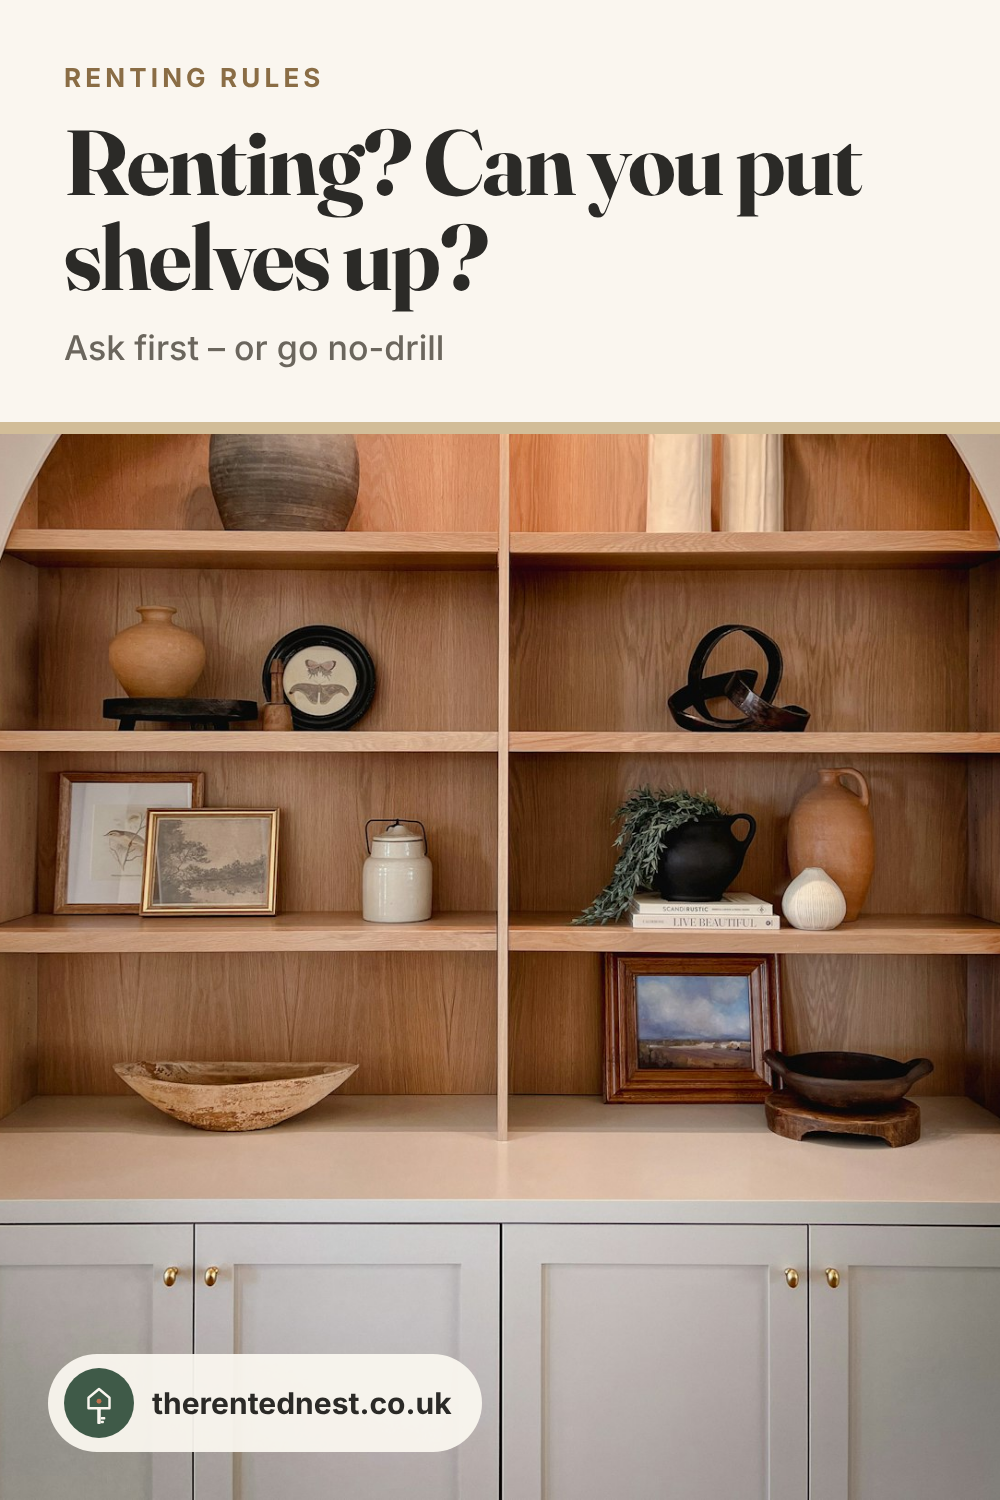
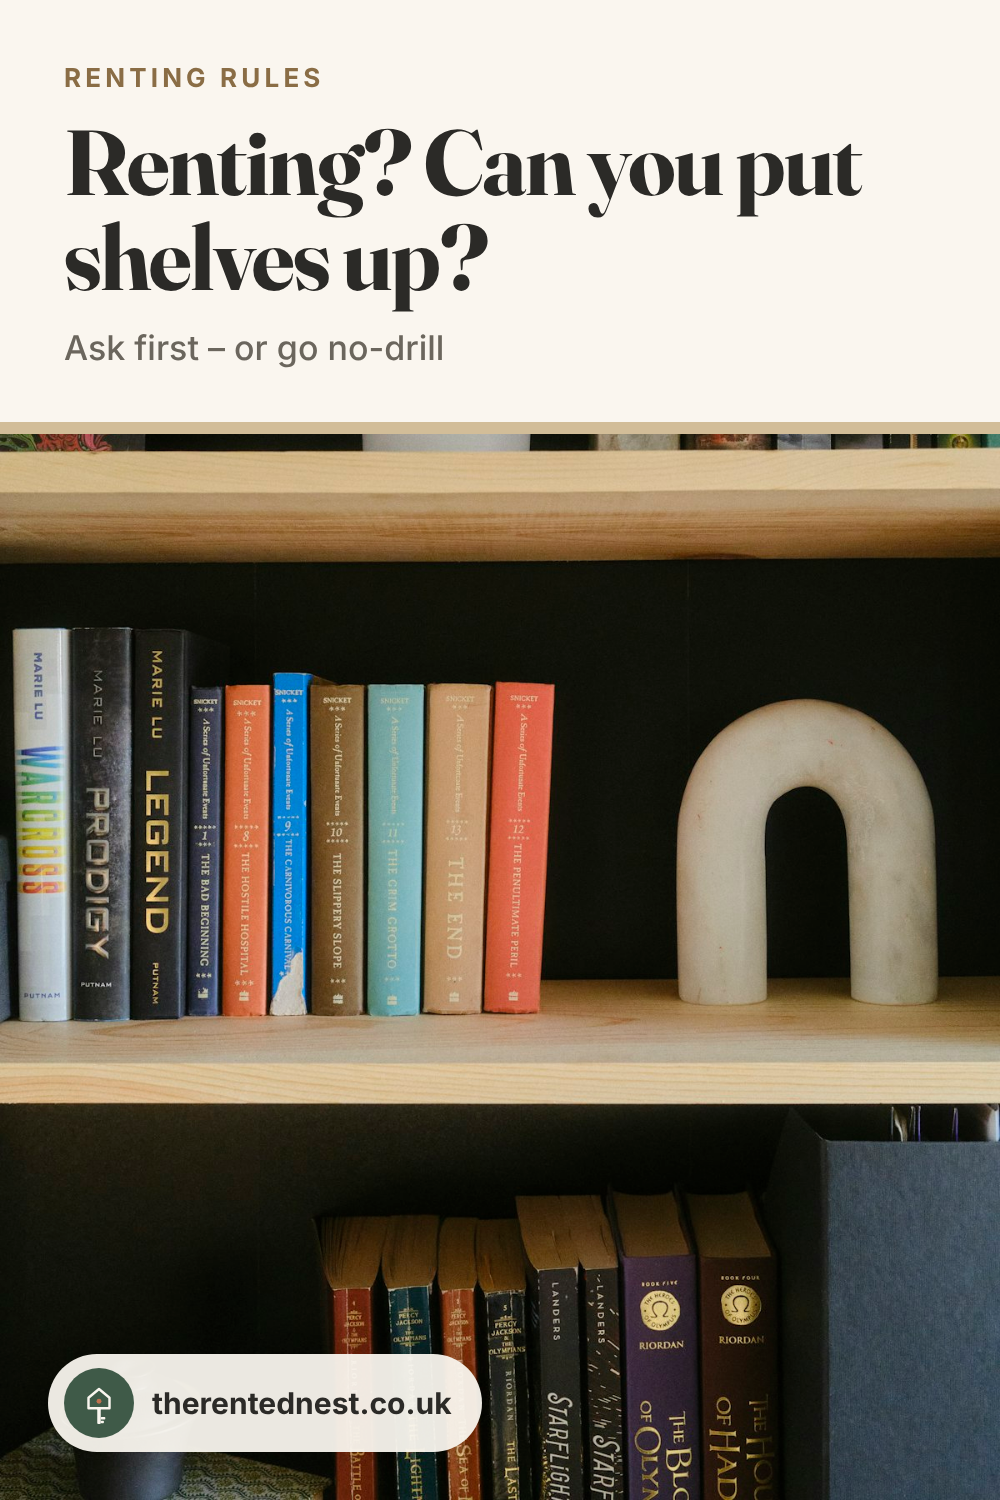
Content run 27 Oct: credits fix, unique photo for v2-shelf-permission

diff --git a/docs/photos/CREDITS.md b/docs/photos/CREDITS.md
@@ -9,4 +9,4 @@ Added 16 Oct 2026 (draught-proofing + Command strips guides, pins): 147325281296
 Added 20 Oct 2026 (Secret Santa under £10 + magnolia guides, condensation ventilation section, pins): 1764764138818-0b22ab4d4023, 1702165639524-252a1c1b1ab5, 1632944968588-3ec2870641ce, 1541278107931-e006523892df, 1703003896979-58c9591be43e, 1640116682712-94bf1c17abe2, 1560448204-e02f11c3d0e2, 1560448204-603b3fc33ddc, 1673939859210-23d8444237ff, 1575414003591-ece8d0416c7a, 1551256718-6820c54cf538, 1599503815079-dfb7085fc667, 1725454917931-a22d603bac58, 1569420077790-afb136b3bb8c, 1514228742587-6b1558fcca3d, 1700488629510-bf60790ff9fc, 1591272216626-b09e38519371, 1761716475708-ef98183ccb62, 1675767528183-628d7e46ae59, 1533779283484-8ad4940aa3a8, 1699443817739-cf2f7cbcd18d, 1617103996702-96ff29b1c467, 1574873347196-ddd0560bc1f1, 1699796796159-a97661cc3f86, 1695694381035-e939e7d90f87, 1690983322029-eee73c0afa14, 1731936757627-f2a1ea5893e6, 1495100497150-fe209c585f50, 1760348213270-7cd00b8c3405, 1629760946220-5693ee4c46ac, 1588173129725-40a81ac0360d, 1667550177753-52b318cd4d40, 1665507279638-5b48073c637b – all from Unsplash free-licence search results.
 Added 22 Oct 2026 (damp data page + pet request guide, pins): 1770208741428-b874de629eb9, 1667605015604-c2cd94e99404, 1693594560514-258c66283f0d, 1696791335713-73ec45f67415, 1665826254141-bfa10685e002, 1772066043908-0033fd15ecc4, 1642543492530-872bdd96321e, 1519337265831-281ec6cc8514, 1693594560383-8292e83de622, 1492138623748-a1b1f758a762, 1601758123927-4f7acc7da589, 1630910627747-299d3bc50b4d, 1507208773393-40d9fc670acf, 1586769852351-8791d2bb43be, 1633545923722-83621046b261, 1510563800743-aed236490d08, 1617468489389-aa833cdf0473, 1613685396238-852abd2b6d36, 1605774337646-71e7f5113b45 – all from Unsplash free-licence search results.
 Added 23 Oct 2026 (first-flat gifts + first-flat essentials guides, pins): 1512909006721-3d6018887383, 1541508223081-3f8cd5cc0f4c, 1547638375-ebf04735d792, 1549465220-1a8b9238cd48, 1558906050-d6d6aa390fd3, 1572081790780-1a7739896259, 1575384043001-f37f48835528, 1583753075968-1236ccb83c66, 1583847268964-b28dc8f51f92, 1585569695919-db237e7cc455, 1590251024078-8a6d9f90b02d, 1592150621744-aca64f48394a, 1601118964938-228a89955311, 1601276174812-63280a55656e, 1602891867080-1d56348202a3, 1608755728617-aefab37d2edd, 1615529182904-14819c35db37, 1632928312386-90d200fd4b7b, 1642505172378-a6f5e5b15580, 1664735245539-69a4846823ce, 1666101370125-ec34d2684f1c, 1699730148132-1409a3728479, 1699901524281-423398392936, 1714647211902-bb711d643a17, 1722487631997-cf1e0f92c2c4, 1722650272764-08d92d193a9c, 1722650362309-2f2fdffbfbf1, 1723996466846-ee687d6a71b7, 1730597363352-0a8fe6eb5d12, 1734553529922-bc020a21643b, 1737372805905-be0b91ec86fb, 1742318592061-15c5f19e1e47, 1744782351841-9cc6b86a5add, 1757358599034-648c673bdfd3, 1758270705639-9727f350f026, 1760565030243-c92ed557e8da, 1761073899409-20fc02e4ed44, 1761295142589-8dc02f83a514, 1764606915254-d6291fe60b4a, 1765992314221-178372ba44be – all from Unsplash free-licence search results.
-Added 27 Oct 2026 (black mould + shelves-without-drilling guides, pins): 1453834190665-46ff0a1fbd5a, 1513201099705-a9746e1e201f, 1514192631-251f5f0b14f2, 1537212013010-de9c76f8f0ae, 1544639044-4f142ceb6a2b, 1545470941-1630430ba8c9, 1567688993206-43c34131b21f, 1577217534079-41d6bb68ac50, 1585421514284-efb74c2b69ba, 1592178036823-ccb0e0e67562, 1594516150843-b2a82ece1035, 1602722053020-af31042989d5, 1628177142898-93e36e4e3a50, 1628512743826-2c28a508ad5e, 1639420482727-e5706c91cbc2, 1639562954924-1928f7cda17c, 1647481045013-8efc5594369d, 1648216771482-2f9b9c3d57ee, 1659710197197-354fb99f30aa, 1676807882724-1027059e6289, 1697787991571-c7ede3ae81e8, 1699177018131-bc8644710f6a, 1707944145479-12755f0434d8, 1708895240122-418c6902685e, 1763351866520-a9e3d5489eb6, 1767497506688-6343eb9dbb00, 1780672823738-2a8d15d79aaf, 1781032384657-320d38787e77, guides – all from Unsplash free-licence search results.
+Added 27 Oct 2026 (black mould + shelves-without-drilling guides, pins): 1453834190665-46ff0a1fbd5a, 1513201099705-a9746e1e201f, 1514192631-251f5f0b14f2, 1515542706656-8e6ef17a1521, 1523907148451-986fa7602675, 1537212013010-de9c76f8f0ae, 1544639044-4f142ceb6a2b, 1545470941-1630430ba8c9, 1567688993206-43c34131b21f, 1577217534079-41d6bb68ac50, 1585421514284-efb74c2b69ba, 1592178036823-ccb0e0e67562, 1593814013328-6041acc27094, 1594516150843-b2a82ece1035, 1602722053020-af31042989d5, 1617806265182-7b3f847f0b75, 1621485522820-e787eb9f29e5, 1627905646269-7f034dcc5738, 1628177142898-93e36e4e3a50, 1628512743826-2c28a508ad5e, 1639420482727-e5706c91cbc2, 1639562954924-1928f7cda17c, 1647481045013-8efc5594369d, 1648216771482-2f9b9c3d57ee, 1659710197197-354fb99f30aa, 1676807882724-1027059e6289, 1693594559531-e057f85f5ff0, 1697787991571-c7ede3ae81e8, 1699177018131-bc8644710f6a, 1707944145479-12755f0434d8, 1708895240122-418c6902685e, 1763351866520-a9e3d5489eb6, 1767497506688-6343eb9dbb00, 1768149524699-484e2d717faa, 1770208741702-33c0932702b1, 1780672823738-2a8d15d79aaf, 1781032384657-320d38787e77, 1633813122125-882b7cba1f7f – all from Unsplash free-licence search results.

diff --git a/static/photos/CREDITS.md b/static/photos/CREDITS.md
@@ -9,4 +9,4 @@ Added 16 Oct 2026 (draught-proofing + Command strips guides, pins): 147325281296
 Added 20 Oct 2026 (Secret Santa under £10 + magnolia guides, condensation ventilation section, pins): 1764764138818-0b22ab4d4023, 1702165639524-252a1c1b1ab5, 1632944968588-3ec2870641ce, 1541278107931-e006523892df, 1703003896979-58c9591be43e, 1640116682712-94bf1c17abe2, 1560448204-e02f11c3d0e2, 1560448204-603b3fc33ddc, 1673939859210-23d8444237ff, 1575414003591-ece8d0416c7a, 1551256718-6820c54cf538, 1599503815079-dfb7085fc667, 1725454917931-a22d603bac58, 1569420077790-afb136b3bb8c, 1514228742587-6b1558fcca3d, 1700488629510-bf60790ff9fc, 1591272216626-b09e38519371, 1761716475708-ef98183ccb62, 1675767528183-628d7e46ae59, 1533779283484-8ad4940aa3a8, 1699443817739-cf2f7cbcd18d, 1617103996702-96ff29b1c467, 1574873347196-ddd0560bc1f1, 1699796796159-a97661cc3f86, 1695694381035-e939e7d90f87, 1690983322029-eee73c0afa14, 1731936757627-f2a1ea5893e6, 1495100497150-fe209c585f50, 1760348213270-7cd00b8c3405, 1629760946220-5693ee4c46ac, 1588173129725-40a81ac0360d, 1667550177753-52b318cd4d40, 1665507279638-5b48073c637b – all from Unsplash free-licence search results.
 Added 22 Oct 2026 (damp data page + pet request guide, pins): 1770208741428-b874de629eb9, 1667605015604-c2cd94e99404, 1693594560514-258c66283f0d, 1696791335713-73ec45f67415, 1665826254141-bfa10685e002, 1772066043908-0033fd15ecc4, 1642543492530-872bdd96321e, 1519337265831-281ec6cc8514, 1693594560383-8292e83de622, 1492138623748-a1b1f758a762, 1601758123927-4f7acc7da589, 1630910627747-299d3bc50b4d, 1507208773393-40d9fc670acf, 1586769852351-8791d2bb43be, 1633545923722-83621046b261, 1510563800743-aed236490d08, 1617468489389-aa833cdf0473, 1613685396238-852abd2b6d36, 1605774337646-71e7f5113b45 – all from Unsplash free-licence search results.
 Added 23 Oct 2026 (first-flat gifts + first-flat essentials guides, pins): 1512909006721-3d6018887383, 1541508223081-3f8cd5cc0f4c, 1547638375-ebf04735d792, 1549465220-1a8b9238cd48, 1558906050-d6d6aa390fd3, 1572081790780-1a7739896259, 1575384043001-f37f48835528, 1583753075968-1236ccb83c66, 1583847268964-b28dc8f51f92, 1585569695919-db237e7cc455, 1590251024078-8a6d9f90b02d, 1592150621744-aca64f48394a, 1601118964938-228a89955311, 1601276174812-63280a55656e, 1602891867080-1d56348202a3, 1608755728617-aefab37d2edd, 1615529182904-14819c35db37, 1632928312386-90d200fd4b7b, 1642505172378-a6f5e5b15580, 1664735245539-69a4846823ce, 1666101370125-ec34d2684f1c, 1699730148132-1409a3728479, 1699901524281-423398392936, 1714647211902-bb711d643a17, 1722487631997-cf1e0f92c2c4, 1722650272764-08d92d193a9c, 1722650362309-2f2fdffbfbf1, 1723996466846-ee687d6a71b7, 1730597363352-0a8fe6eb5d12, 1734553529922-bc020a21643b, 1737372805905-be0b91ec86fb, 1742318592061-15c5f19e1e47, 1744782351841-9cc6b86a5add, 1757358599034-648c673bdfd3, 1758270705639-9727f350f026, 1760565030243-c92ed557e8da, 1761073899409-20fc02e4ed44, 1761295142589-8dc02f83a514, 1764606915254-d6291fe60b4a, 1765992314221-178372ba44be – all from Unsplash free-licence search results.
-Added 27 Oct 2026 (black mould + shelves-without-drilling guides, pins): 1453834190665-46ff0a1fbd5a, 1513201099705-a9746e1e201f, 1514192631-251f5f0b14f2, 1537212013010-de9c76f8f0ae, 1544639044-4f142ceb6a2b, 1545470941-1630430ba8c9, 1567688993206-43c34131b21f, 1577217534079-41d6bb68ac50, 1585421514284-efb74c2b69ba, 1592178036823-ccb0e0e67562, 1594516150843-b2a82ece1035, 1602722053020-af31042989d5, 1628177142898-93e36e4e3a50, 1628512743826-2c28a508ad5e, 1639420482727-e5706c91cbc2, 1639562954924-1928f7cda17c, 1647481045013-8efc5594369d, 1648216771482-2f9b9c3d57ee, 1659710197197-354fb99f30aa, 1676807882724-1027059e6289, 1697787991571-c7ede3ae81e8, 1699177018131-bc8644710f6a, 1707944145479-12755f0434d8, 1708895240122-418c6902685e, 1763351866520-a9e3d5489eb6, 1767497506688-6343eb9dbb00, 1780672823738-2a8d15d79aaf, 1781032384657-320d38787e77, guides – all from Unsplash free-licence search results.
+Added 27 Oct 2026 (black mould + shelves-without-drilling guides, pins): 1453834190665-46ff0a1fbd5a, 1513201099705-a9746e1e201f, 1514192631-251f5f0b14f2, 1515542706656-8e6ef17a1521, 1523907148451-986fa7602675, 1537212013010-de9c76f8f0ae, 1544639044-4f142ceb6a2b, 1545470941-1630430ba8c9, 1567688993206-43c34131b21f, 1577217534079-41d6bb68ac50, 1585421514284-efb74c2b69ba, 1592178036823-ccb0e0e67562, 1593814013328-6041acc27094, 1594516150843-b2a82ece1035, 1602722053020-af31042989d5, 1617806265182-7b3f847f0b75, 1621485522820-e787eb9f29e5, 1627905646269-7f034dcc5738, 1628177142898-93e36e4e3a50, 1628512743826-2c28a508ad5e, 1639420482727-e5706c91cbc2, 1639562954924-1928f7cda17c, 1647481045013-8efc5594369d, 1648216771482-2f9b9c3d57ee, 1659710197197-354fb99f30aa, 1676807882724-1027059e6289, 1693594559531-e057f85f5ff0, 1697787991571-c7ede3ae81e8, 1699177018131-bc8644710f6a, 1707944145479-12755f0434d8, 1708895240122-418c6902685e, 1763351866520-a9e3d5489eb6, 1767497506688-6343eb9dbb00, 1768149524699-484e2d717faa, 1770208741702-33c0932702b1, 1780672823738-2a8d15d79aaf, 1781032384657-320d38787e77, 1633813122125-882b7cba1f7f – all from Unsplash free-licence search results.
